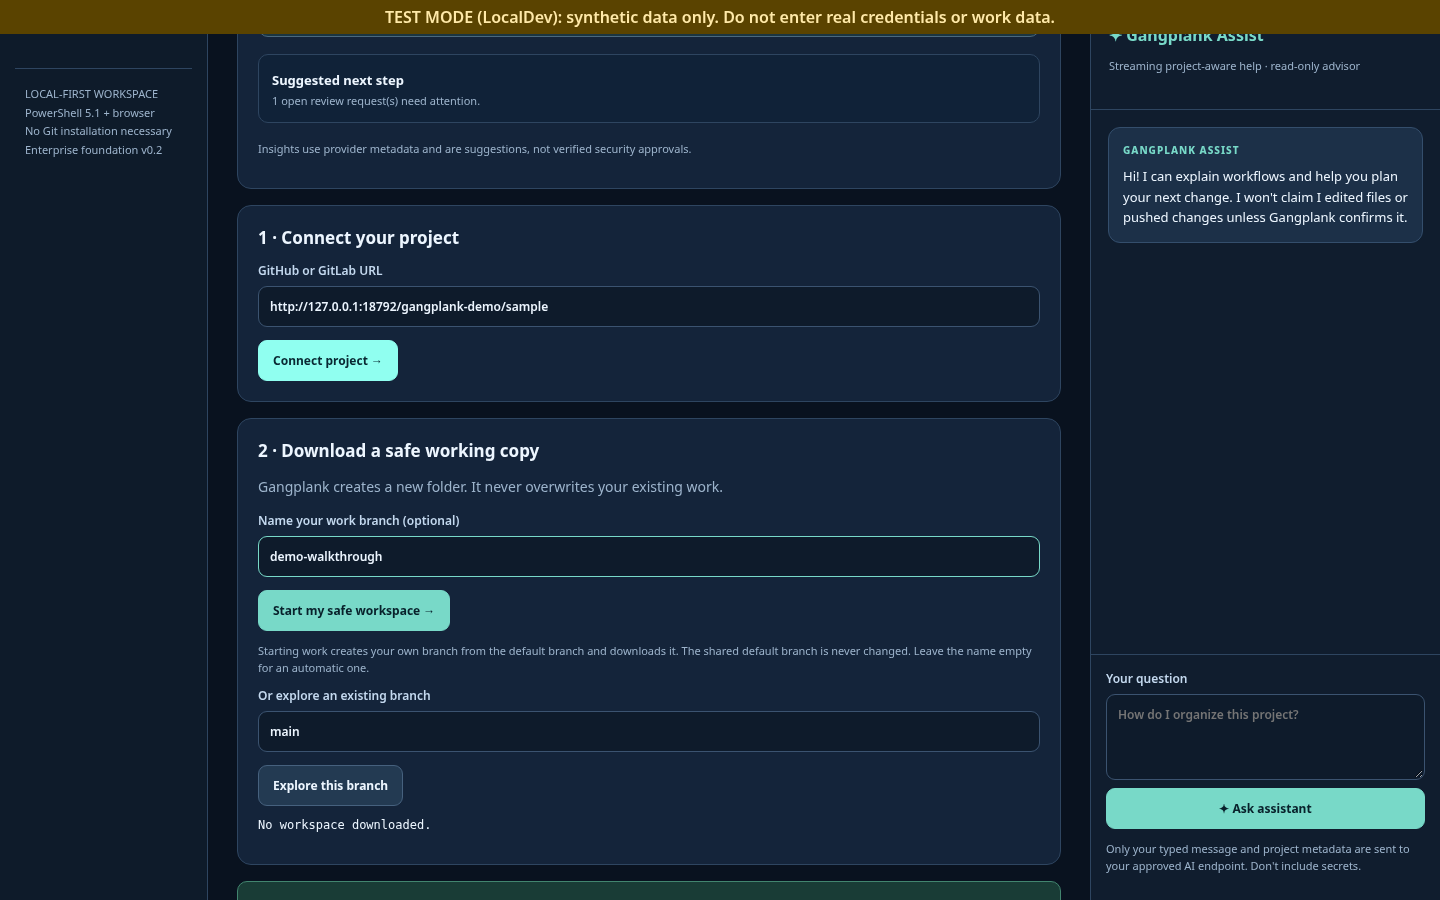
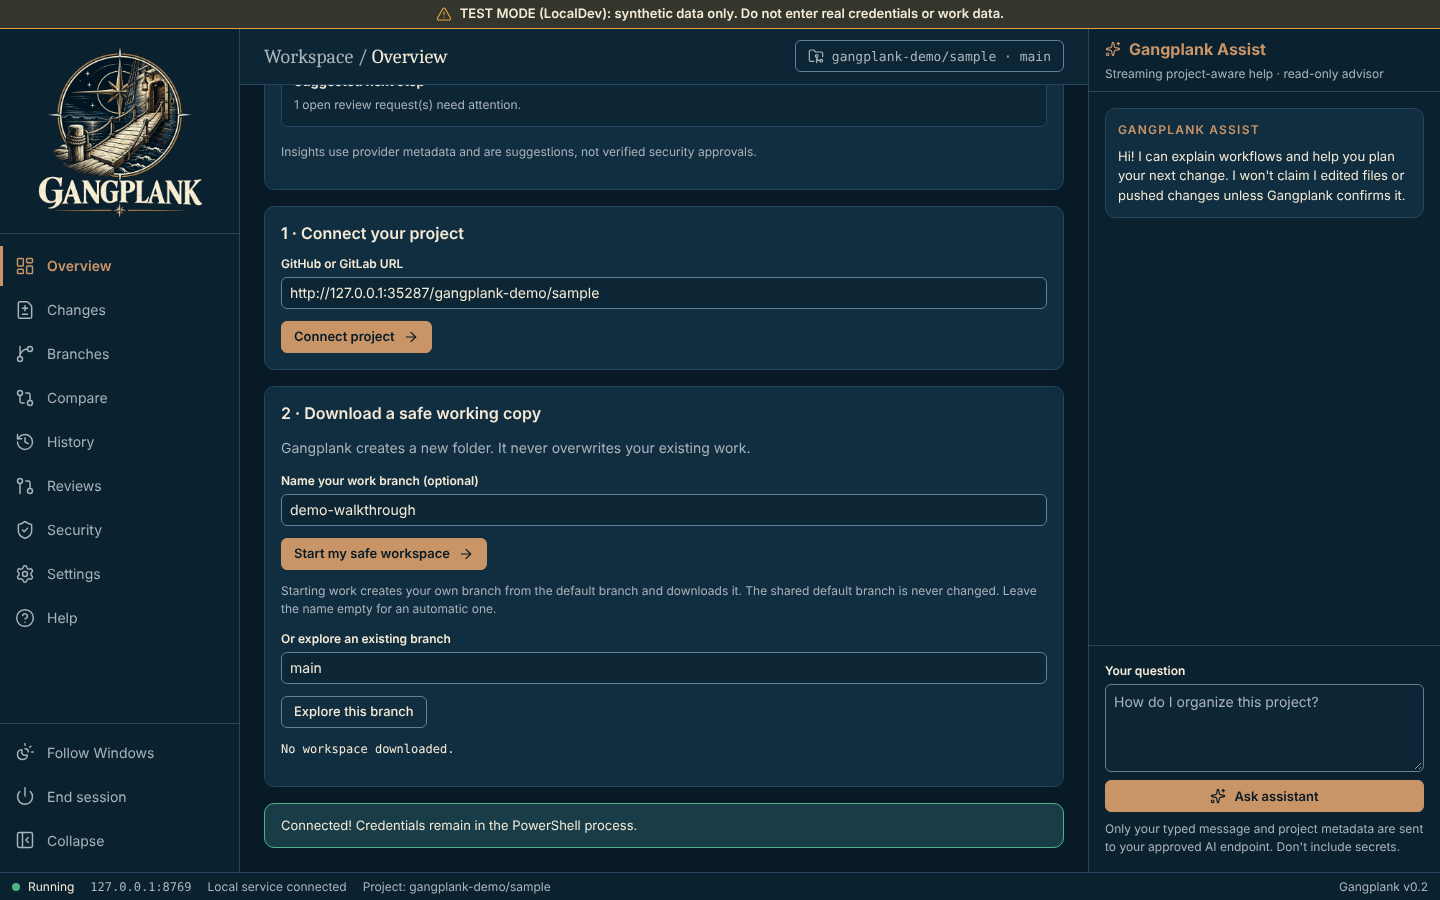
docs: retake README and walkthrough screenshots from the current Fleet UI
All nine app screenshots predated the current shell. The seven walkthrough
images still showed the pre-Fleet teal UI (text-glyph nav, no status bar,
old wedge logo), and the README pair showed the earlier mark-plus-wordmark
sidebar header instead of the full emblem the sidebar has now.

- Retake docs/assets/walkthrough/01..07 (Night watch, 1440x900) and
  docs/screenshots/workspace-{night-watch,chart-room}.png from origin/main.
- Add dev/capture-walkthrough.mjs: serves web/ through Playwright on
  127.0.0.1:8769 with a stand-in for the host API (shapes from
  Server/Routes.ps1). Every repository fact, including the work branch,
  the published commit and the review request, comes from the synthetic
  GitHub in dev/fake-github.mjs, so it runs without PowerShell.
- Walkthrough README: Gangplank has two themes now; say which one the
  images use and how to retake them.

Claude-Session: https://claude.ai/code/session_011ed4z4RFijKn2Db3KcKVzo

diff --git a/docs/walkthrough/README.md b/docs/walkthrough/README.md
@@ -15,7 +15,7 @@ Get a safe working copy of a project, edit it with your normal tools, and publis
 
 ### 1. First launch
 
-Gangplank opens on **Overview**. With no project connected, the *Current project* card says *Ready when you are*. Scroll to step 1, *Connect your project*. The yellow TEST MODE banner marks the LocalDev demo build.
+Gangplank opens on **Overview**. With no project connected, the *Current project* card says *Ready when you are*. Scroll to step 1, *Connect your project*. The TEST MODE banner across the top marks the LocalDev demo build.
 
 ![Gangplank Overview on first launch in TEST MODE: Ready when you are, with the demo repository URL filled in under Connect your project.](../assets/walkthrough/01-first-launch.png)
 
@@ -59,4 +59,4 @@ Publish, then select **Create review request** to open a pull request or merge r
 
 ## About these images
 
-Images live in [`docs/assets/walkthrough/`](../assets/walkthrough/), named `NN-<screen>.png` after the step they belong to. They are 1440x900 at 100% scale in the Dark (Gangplank has one theme) theme, and show demo data only.
+Images live in [`docs/assets/walkthrough/`](../assets/walkthrough/), named `NN-<screen>.png` after the step they belong to. They are 1440x900 at 100% scale in the Night watch (dark) theme with the sidebar expanded, and show demo data only. `node dev/capture-walkthrough.mjs` retakes them (and the README pair in `docs/screenshots/`) against the synthetic GitHub in `dev/fake-github.mjs`.
